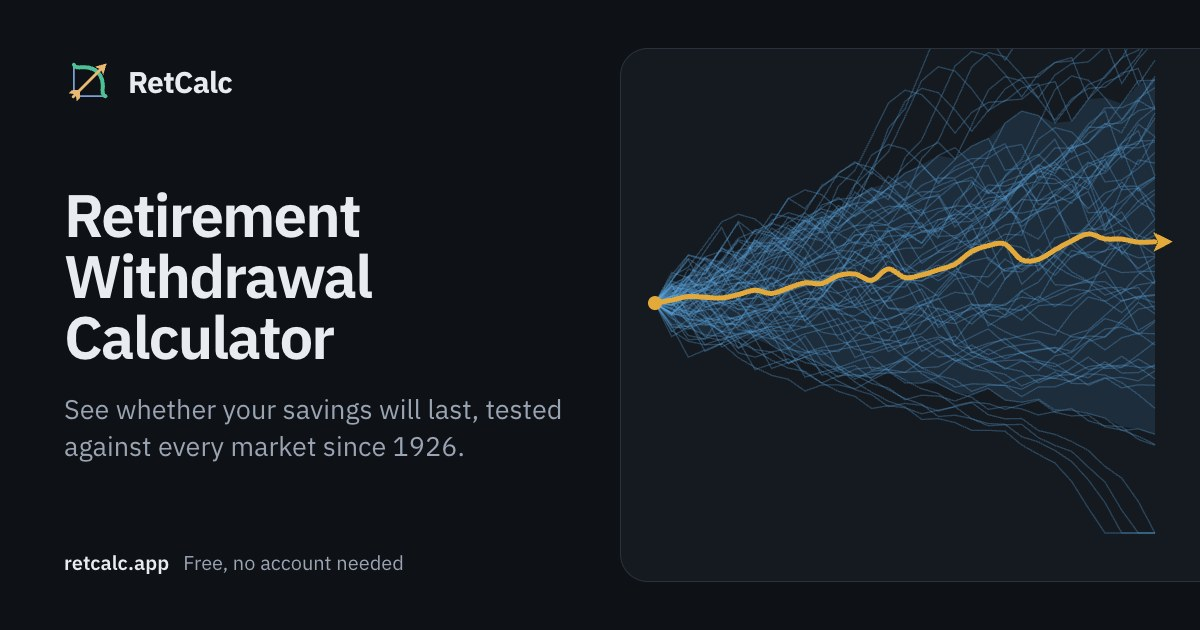
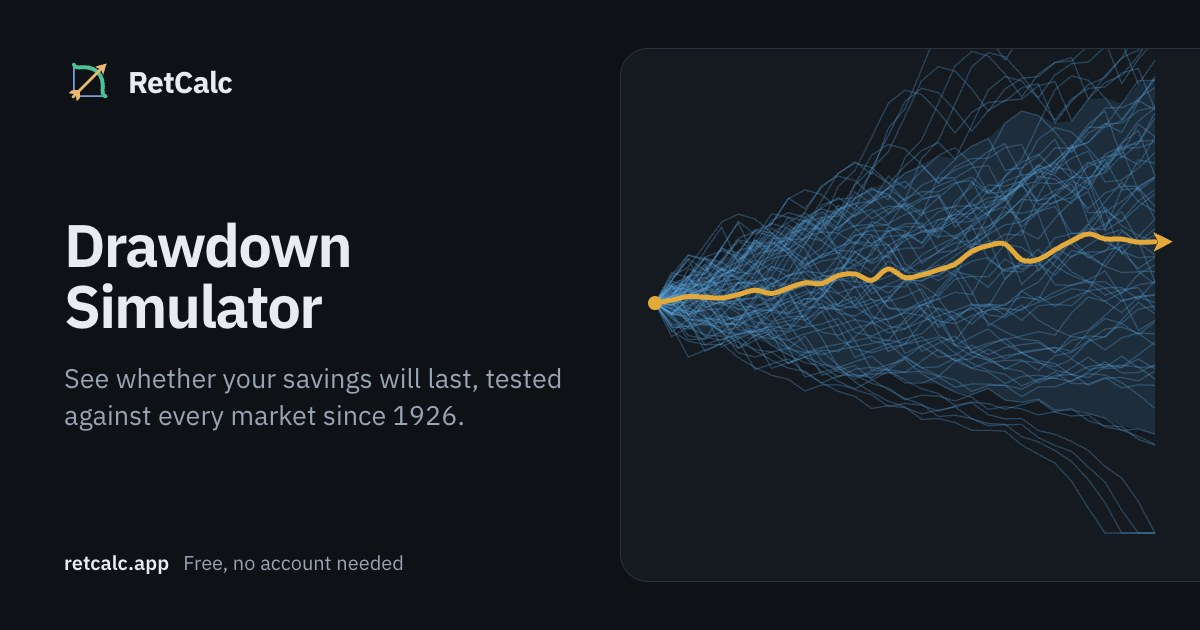
Drawdown Simulator everywhere: its page heading, tab title and preview card
The page called it "Retirement Withdrawal Calculator" while the nav, Tools
page and homepage say Drawdown Simulator. The tab title keeps "Will My
Money Last?" after the name.

Changed region(s): [[0.0308, 0.3016, 0.4625, 0.7238]]

diff --git a/web/lib/cards.ts b/web/lib/cards.ts
@@ -33,7 +33,7 @@ export const CARDS: Partial<Record<Slug, Card>> = {
   tools: { title: "Free Financial Planning Tools", art: "tools",
     text: "Calculators for retirement, taxes, Roth conversions, healthcare, mortgages, budgets and debt." },
 
-  drawdown: { title: "Retirement Withdrawal Calculator", art: "fan",
+  drawdown: { title: "Drawdown Simulator", art: "fan",
     text: "See whether your savings will last, tested against every market since 1926." },
   "4-percent-rule": { title: "4% Rule Calculator", art: "fan",
     text: "Test the 4% rule " + SINCE },
